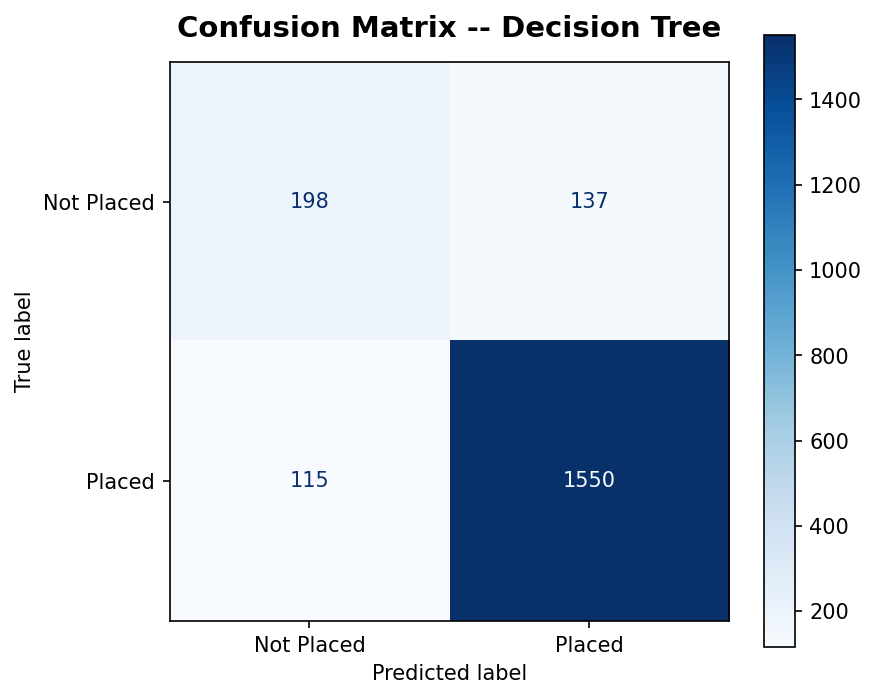
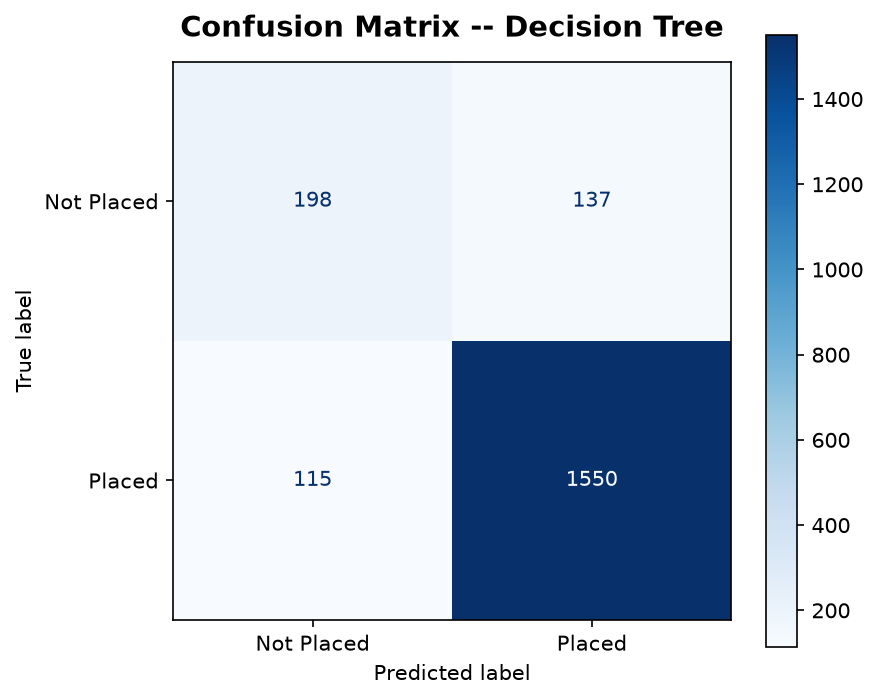
changes

diff --git a/decision_tree.py b/decision_tree.py
@@ -38,7 +38,7 @@ class Node:
     """
     def __init__(
         self,
-        feature_index=None,
+        feature_inmilihdex=None,
         threshold=None,
         left=None,
         right=None,
@@ -101,24 +101,6 @@ def hitung_information_gain(
     y_kiri:   np.ndarray,
     y_kanan:  np.ndarray,
 ) -> float:
-    """
-    Menghitung Information Gain setelah melakukan satu split.
-
-    Rumus:
-        IG = H(parent) - [ (|kiri|/|parent|) * H(kiri)
-                         + (|kanan|/|parent|) * H(kanan) ]
-
-    Semakin besar IG, semakin baik split tersebut dalam
-    memisahkan kelas-kelas yang berbeda.
-
-    Parameter:
-        y_parent : label sampel sebelum split (simpul induk)
-        y_kiri   : label sampel anak kiri  (nilai <= threshold)
-        y_kanan  : label sampel anak kanan (nilai >  threshold)
-
-    Return:
-        float : nilai information gain
-    """
     n  = len(y_parent)
     nL = len(y_kiri)
     nR = len(y_kanan)
@@ -223,30 +205,6 @@ def bangun_pohon(
     max_depth:  int = 5,
     min_sampel: int = 2,
 ) -> Node:
-    """
-    Membangun pohon keputusan secara rekursif (algoritma ID3/CART sederhana).
-
-    Strategi Divide-and-Conquer:
-        1. Cari split terbaik (fitur + threshold) berdasarkan IG
-        2. Bagi dataset menjadi dua subset (kiri dan kanan)
-        3. Rekursif bangun subtree untuk masing-masing subset
-        4. Berhenti jika kondisi penghentian terpenuhi
-
-    Kondisi berhenti (base case):
-        a. Kedalaman sudah mencapai max_depth
-        b. Semua sampel di node ini berasal dari satu kelas (entropy = 0)
-        c. Jumlah sampel di bawah min_sampel
-
-    Parameter:
-        X          : matriks fitur (n_sampel x n_fitur)
-        y          : array label kelas (n_sampel,)
-        kedalaman  : kedalaman node saat ini dalam pohon
-        max_depth  : batas maksimum kedalaman pohon
-        min_sampel : jumlah minimum sampel agar node bisa di-split
-
-    Return:
-        Node -- simpul hasil (internal node atau leaf node)
-    """
     n_sampel = len(y)
     n_kelas  = len(np.unique(y))
 
@@ -290,24 +248,6 @@ def bangun_pohon(
 # ─────────────────────────────────────────────────────────────────────────────
 
 def prediksi_satu(node: Node, x: np.ndarray) -> int:
-    """
-    Memprediksi kelas untuk SATU sampel dengan cara menelusuri pohon
-    dari root hingga leaf.
-
-    Cara kerja:
-        - Jika node adalah leaf -> kembalikan nilai prediksi
-        - Jika nilai fitur[node.feature_index] <= threshold
-          -> telusuri anak kiri
-        - Jika nilai fitur[node.feature_index] >  threshold
-          -> telusuri anak kanan
-
-    Parameter:
-        node : simpul awal penelusuran (biasanya root)
-        x    : satu vektor fitur, shape (n_fitur,)
-
-    Return:
-        int : label kelas prediksi
-    """
     # Base case: sudah mencapai leaf node
     if node.is_leaf():
         return node.value
@@ -320,16 +260,6 @@ def prediksi_satu(node: Node, x: np.ndarray) -> int:
 
 
 def prediksi(pohon: Node, X: np.ndarray) -> np.ndarray:
-    """
-    Memprediksi kelas untuk BANYAK sampel sekaligus.
-
-    Parameter:
-        pohon : simpul akar pohon keputusan
-        X     : matriks fitur, shape (n_sampel, n_fitur)
-
-    Return:
-        numpy array shape (n_sampel,) berisi label kelas prediksi
-    """
     # Terapkan prediksi_satu ke setiap baris (sampel) dalam X
     return np.array([prediksi_satu(pohon, baris) for baris in X])
 
@@ -344,23 +274,6 @@ def hitung_feature_importance(
     importance: np.ndarray = None,
     bobot:      float = 1.0,
 ) -> np.ndarray:
-    """
-    Menghitung feature importance berdasarkan akumulasi Information Gain
-    yang dikontribusikan setiap fitur di seluruh node pohon.
-
-    Setiap node internal berkontribusi:
-        importance[fi] += bobot_node * info_gain_node
-    dimana bobot_node dihitung secara rekursif (dikecilkan tiap level).
-
-    Parameter:
-        node       : simpul pohon yang sedang diproses
-        n_fitur    : jumlah total fitur
-        importance : array akumulasi (diinisialisasi otomatis pada root)
-        bobot      : bobot kontribusi node ini (dikurangi x0.5 tiap level)
-
-    Return:
-        numpy array shape (n_fitur,) dinormalisasi sehingga total = 1.0
-    """
     # Inisialisasi array importance pada pemanggilan pertama (root)
     if importance is None:
         importance = np.zeros(n_fitur)
@@ -399,10 +312,6 @@ def tampilkan_pohon(
     kedalaman:     int  = 0,
 ):
     """
-    Menampilkan struktur pohon keputusan dalam format teks hierarkis.
-    Hanya menampilkan hingga batas_depth level dari root.
-
-    Parameter:
         node          : simpul yang sedang ditampilkan
         feature_names : daftar nama kolom fitur
         class_names   : daftar nama kelas target

diff --git a/preprocessing.py b/preprocessing.py
@@ -15,9 +15,6 @@ from collections import Counter
 
 def load_and_preprocess(filepath: str, test_size: float = 0.2, random_state: int = 42):
     """
-    Memuat dan memproses dataset dari file CSV.
-
-    Langkah-langkah:
         1.1  Baca file CSV dengan pandas
         1.2  Tampilkan 5 baris pertama sebagai gambaran awal
         1.3  Periksa dan tangani missing values
@@ -25,17 +22,6 @@ def load_and_preprocess(filepath: str, test_size: float = 0.2, random_state: int
         1.5  Hapus kolom yang menyebabkan data leakage (exam_score)
         1.6  Pisahkan fitur (X) dan target (y)
         1.7  Split manual 80:20 tanpa sklearn.train_test_split
-
-    Parameter:
-        filepath     : path ke file CSV
-        test_size    : proporsi data uji (default 0.2 = 20%)
-        random_state : seed agar hasil acak bisa direproduksi
-
-    Return:
-        X_train, X_test  : matriks fitur training dan testing (numpy array)
-        y_train, y_test  : array label training dan testing (numpy array)
-        feature_names    : daftar nama kolom fitur yang digunakan
-        class_names      : daftar nama kelas target
     """
     print("=" * 65)
     print("  MEMUAT DAN MEMPROSES DATASET")
@@ -67,8 +53,6 @@ def load_and_preprocess(filepath: str, test_size: float = 0.2, random_state: int
                     print(f"    -> Kolom '{col}' diisi dengan nilai modus.")
 
     # ── 1.4  Encoding label target ────────────────────────────────────────
-    # Kolom placement_status bernilai string ("Placed"/"Not Placed").
-    # Konversi ke integer agar bisa diproses secara numerik oleh Decision Tree.
     target_col  = "placement_status"
     class_names = sorted(df[target_col].unique())   # ['Not Placed', 'Placed']
     label_map   = {cls: idx for idx, cls in enumerate(class_names)}
@@ -76,11 +60,6 @@ def load_and_preprocess(filepath: str, test_size: float = 0.2, random_state: int
     print(f"\n[OK] Encoding label target : {label_map}")
 
     # ── 1.5  Hapus kolom yang menyebabkan data leakage ───────────────────
-    # Kolom exam_score dihapus karena secara logis nilai ujian tidak bisa
-    # digunakan untuk memprediksi placement_status — placement ditentukan
-    # sebelum atau bersamaan dengan exam score, sehingga menggunakannya
-    # sebagai fitur prediksi akan menghasilkan model yang tidak realistis
-    # (data leakage -> akurasi 100%).
     KOLOM_DIHAPUS = ["exam_score"]
     df = df.drop(columns=KOLOM_DIHAPUS, errors="ignore")
     print(f"[OK] Kolom dihapus (data leakage) : {KOLOM_DIHAPUS}")

diff --git a/evaluasi.py b/evaluasi.py
@@ -22,23 +22,6 @@ def evaluasi_model(
     y_prediksi:  np.ndarray,
     class_names: list,
 ):
-    """
-    Mengevaluasi performa model Decision Tree menggunakan sklearn.metrics.
-
-    Metrik yang dihitung dan ditampilkan:
-        1. Akurasi             -- proporsi prediksi benar dari total prediksi
-        2. Classification Report -- presisi, recall, F1-score per kelas
-        3. Confusion Matrix    -- tabel kesalahan klasifikasi per kelas
-
-    Parameter:
-        y_asli      : label kelas asli dari data uji (numpy array)
-        y_prediksi  : label kelas hasil prediksi model (numpy array)
-        class_names : daftar nama kelas (urutan sesuai encoding)
-
-    Return:
-        akurasi (float)        : nilai akurasi antara 0.0 – 1.0
-        cm (numpy ndarray)     : confusion matrix
-    """
     print("\n" + "=" * 65)
     print("  HASIL EVALUASI MODEL DECISION TREE")
     print("=" * 65)

diff --git a/main.py b/main.py
@@ -46,9 +46,6 @@ DATASET_PATH  = r"dataset\student_dataset_10000_rows.csv"
 OUTPUT_DIR    = "./output"      # direktori penyimpanan file PNG
 
 # Parameter Decision Tree
-# Nilai optimal dipilih berdasarkan hasil grid search (parameter_testing.py):
-#   Eksperimen menguji depth [1,2,3,4,5,6,8,10,12,15] x min_sampel [2,5,10,20,50,100]
-#   Kombinasi depth=10, min_sampel=20 menghasilkan F1 macro tertinggi (0.7680)
 MAX_DEPTH     = 10   # kedalaman maksimum pohon (optimal: lebih dalam = lebih ekspresif)
 MIN_SAMPEL    = 20   # minimum sampel per node (optimal: mencegah split noise)
 MAX_THRESHOLD = 20   # kandidat threshold per fitur (optimasi kecepatan)